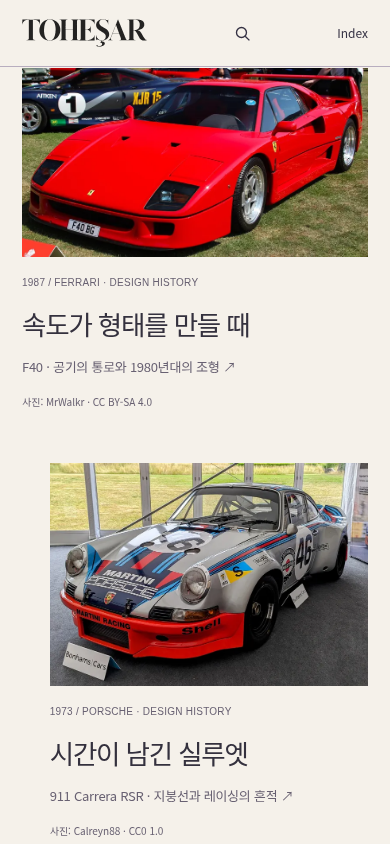
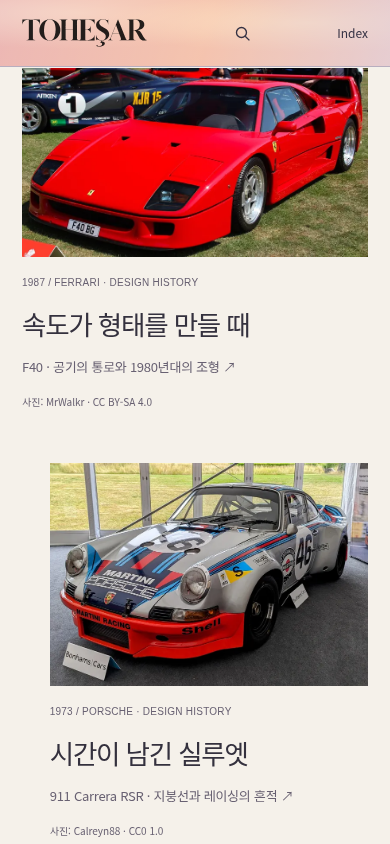
Document reference study and verify peach navigation

Changed region(s): [[0.0, 0.0, 1.0, 0.0924]]

diff --git a/docs/living-gallery-032/README.md b/docs/living-gallery-032/README.md
@@ -7,6 +7,7 @@
 | Jaguar 첫 장면 | [Before](before/jaguar-hero.png) | [After](after/jaguar-hero.png) |
 | Jaguar 도입과 타이포그래피 | [Before](before/jaguar-opening.png) | [After](after/jaguar-opening.png) |
 | 측면 사진 | [Before](before/jaguar-profile.png) | [After](after/jaguar-profile.png) |
+| 후면 디테일과 글의 순서 | [Before](before/jaguar-language.png) | [After](after/jaguar-language.png) |
 | Type 00에서 Type 01으로 | [Before](before/jaguar-comparison.png) | [After](after/jaguar-comparison.png) |
 | 마지막 사진과 본문 순서 | [Before](before/jaguar-closing.png) | [After](after/jaguar-closing.png) |
 | 저널 Jaguar 소개 | [Before](before/journal.png) | [After](after/journal.png) |
@@ -18,9 +19,11 @@
 
 ## 시각적 판단
 
-- [Type 7](https://type7.com/) 실제 지면의 사진이 페이지를 지배하는 크기와 분명한 제목 위계를 관찰했다. Type 7의 사진 위 대형 영문 타이틀이나 상업용 캐러셀을 재현하지 않고, 한글 가독성을 위해 Jaguar의 사진과 제목을 별도 영역에 두었다.
-- Awwwards Site of the Day 수상작 [S-2K](https://www.uicoach.io/inspirations/award-winning/s-2k)의 실제 수상 스크린샷에서 어두운 사진과 크고 작은 활자의 명확한 위계를 비교했다. 시선의 중심을 하나로 두는 원칙을 가져오되, 원본 이미지 위의 큰 장식 텍스트나 몰입형 모션은 적용하지 않았다. 모바일 도입 사진은 차체가 잘리지 않는 범위에서 좌우를 크롭했다. [M-Sport Raptor의 수상 기록](https://www.ryzeagency.co.uk/news/ryze-wins-site-of-the-day-for-m-sport-raptor-website/)도 확인했다.
+- [Type 7의 Drive Cinematic 기사](https://type7.com/blogs/stories/drive-cinematic)를 390px과 데스크톱에서 직접 살폈다. 모바일은 전체 너비 사진, 짧은 읽기 단락, 다시 사진으로 이어진다. 이를 참고해 Jaguar에서 측면 사진을 긴 해설 앞에 당기고, 후면 디테일은 맥락을 소개한 두 문단 뒤에 배치했다. 사진을 추가하거나 제목을 이미지에 겹치지 않았다.
+- Awwwards Site of the Day 수상작 [S-2K 제작 기록](https://www.ivorjian.com/s-2k)과 실제 모바일 화면을 확인했다. 시선을 한 사진에 집중하는 위계는 참고했지만, 모바일의 긴 속도계 로딩 및 실험적 동작은 자연스러운 독서에 맞지 않아 채택하지 않았다. 모바일 도입 사진은 차체가 잘리지 않는 범위에서 좌우를 크롭했다. [M-Sport Raptor의 수상 기록](https://www.ryzeagency.co.uk/news/ryze-wins-site-of-the-day-for-m-sport-raptor-website/)도 확인했다.
+- [American Society of Cinematographers의 Skyfall 촬영 인터뷰](https://theasc.com/article/skyfall-mi6-under-siege/)에서 빛의 출처와 어둠을 의식해 장면을 만드는 방식을 참고했다. 자동차 사진 자체의 황금빛 벽과 그림자를 살리고, 뒤의 어두운 면과 밝은 읽기 지면을 대비시켰다. Gunbarrel의 원형 그래픽이나 영화 장면은 재현하지 않았다.
 - Jaguar의 첫 사진에서 어두운 종이색으로 이어지는 명암과 밝은 본문, 다시 어두워지는 마지막 캡션으로 큰 시각적 리듬을 만들었다. 대표 사진 중복을 제거하고 Type 00 사진을 독립된 장면으로 놓았다. 조형 관찰선, 반복되는 풀쿼트와 소제목을 줄였다. 원문 사실과 인용은 유지하면서 이미 앞에서 설명한 반복 문장만 덜었다. 결론 뒤에 항공 사진을 배치해 마지막 시각 장면이 글을 마무리한다.
+- 저널 계열의 독립 지면 상단 바에는 피치·살구·연보라 색면이 천천히 교차하도록 했다. CSS 불투명도만 사용하며 메뉴 조작이나 스크롤을 가로채지 않고, reduced motion에서는 정지한다. COVER 004와 커버 안의 내비게이션은 적용 대상에서 제외했다.
 - 한글의 지나치게 좁은 자간을 완화하고 영문 차명을 세리프로, 캡션은 더 읽기 쉽게 조정했다. ISSUE 001의 흐릿한 반복 자동차 배경은 정지된 종이색으로 정리했으며, 별도의 주행 자동차는 유지했다. 저널에서 나란히 붙어 보이던 두 링크 중 중복 유도를 제거했다.
 
 ## 사진과 이용 조건
